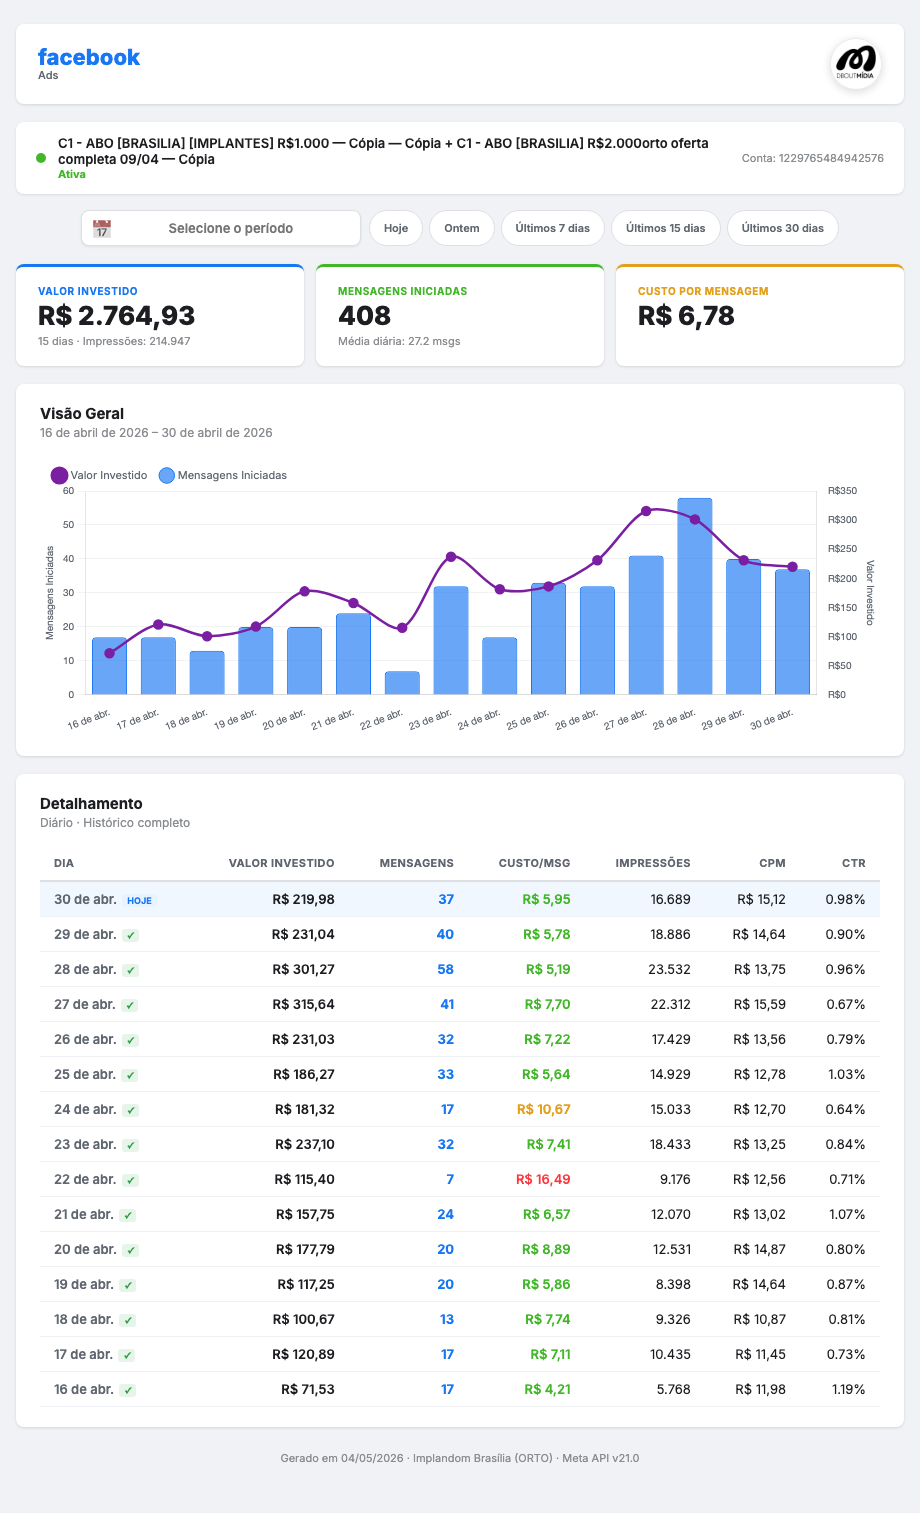
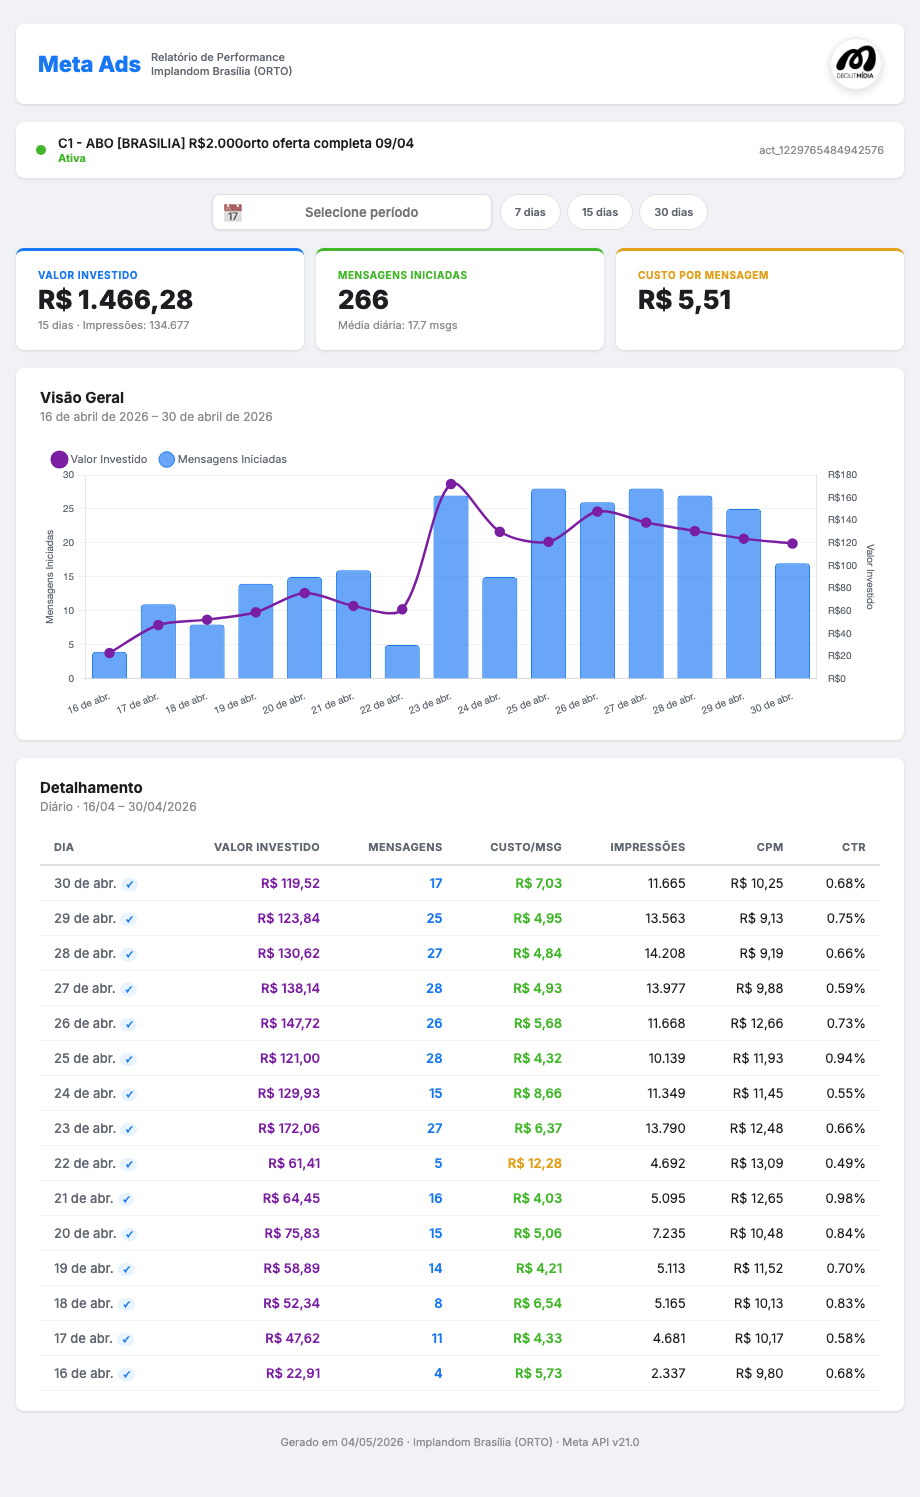
Victor: Brasília IMPLANTES/ORTO + Itaúna IMPLANTES/ORTO — 16/04→30/04

diff --git a/relatorio_implandom_brasilia_implantes.html b/relatorio_implandom_brasilia_implantes.html
@@ -1,8 +1,5 @@
-<!DOCTYPE html>
-<html lang="pt-BR">
-<head>
-<meta charset="UTF-8"/>
-<meta name="viewport" content="width=device-width,initial-scale=1.0"/>
+<!DOCTYPE html><html lang="pt-BR"><head>
+<meta charset="UTF-8"/><meta name="viewport" content="width=device-width,initial-scale=1.0"/>
 <title>Relatório · Implandom Brasília (IMPLANTES) · Meta Ads</title>
 <script src="https://cdn.jsdelivr.net/npm/chart.js@4.4.0/dist/chart.umd.min.js"></script>
 <link rel="stylesheet" href="https://cdn.jsdelivr.net/npm/flatpickr/dist/flatpickr.min.css">
@@ -13,15 +10,12 @@
 *,*::before,*::after{box-sizing:border-box;margin:0;padding:0}
 body{font-family:'Inter',sans-serif;background:#f0f2f5;color:#1c1e21;font-size:14px}
 .page{max-width:920px;margin:0 auto;padding:24px 16px 48px}
-.header{background:#fff;border-radius:8px;padding:14px 22px;margin-bottom:18px;
-        display:flex;align-items:center;justify-content:space-between;
-        box-shadow:0 1px 3px rgba(0,0,0,.12)}
+.header{background:#fff;border-radius:8px;padding:14px 22px;margin-bottom:18px;display:flex;align-items:center;justify-content:space-between;box-shadow:0 1px 3px rgba(0,0,0,.12)}
 .header-left{display:flex;align-items:center;gap:10px}
 .fb-wordmark{font-size:22px;font-weight:800;color:#1877f2;line-height:1}
 .fb-sub{font-size:11px;color:#606770;font-weight:500}
 .dbout-logo{width:52px;height:52px;border-radius:50%;object-fit:cover;box-shadow:0 2px 8px rgba(0,0,0,.15);border:1px solid #e8e8e8;flex-shrink:0}
-.camp-info{background:#fff;border-radius:8px;padding:13px 20px;margin-bottom:16px;
-           box-shadow:0 1px 3px rgba(0,0,0,.1);display:flex;align-items:center;gap:12px}
+.camp-info{background:#fff;border-radius:8px;padding:13px 20px;margin-bottom:16px;box-shadow:0 1px 3px rgba(0,0,0,.1);display:flex;align-items:center;gap:12px}
 .camp-dot{width:10px;height:10px;border-radius:50%;background:#42b72a;flex-shrink:0}
 .camp-name{font-size:13px;font-weight:600;color:#1c1e21}
 .camp-status{font-size:11px;color:#42b72a;font-weight:700}
@@ -29,156 +23,75 @@ body{font-family:'Inter',sans-serif;background:#f0f2f5;color:#1c1e21;font-size:1
 .date-range-wrap{display:flex;justify-content:center;margin-bottom:18px;gap:8px;flex-wrap:wrap}
 .date-input-wrap{position:relative}
 .date-icon{position:absolute;left:12px;top:50%;transform:translateY(-50%);pointer-events:none;color:#606770}
-#dateRangeInput{background:#fff;border:1.5px solid #dddfe2;border-radius:8px;
-  padding:9px 16px 9px 36px;font-size:13px;font-weight:600;color:#1c1e21;
-  font-family:'Inter',sans-serif;cursor:pointer;min-width:280px;text-align:center;
-  box-shadow:0 1px 3px rgba(0,0,0,.08);transition:border-color .15s;outline:none}
+#dateRangeInput{background:#fff;border:1.5px solid #dddfe2;border-radius:8px;padding:9px 16px 9px 36px;font-size:13px;font-weight:600;color:#1c1e21;font-family:'Inter',sans-serif;cursor:pointer;min-width:280px;text-align:center;box-shadow:0 1px 3px rgba(0,0,0,.08);transition:border-color .15s;outline:none}
 #dateRangeInput:hover,#dateRangeInput:focus{border-color:#1877f2}
 .period-shortcuts{display:flex;gap:6px;flex-wrap:wrap;justify-content:center}
-.ps-btn{padding:6px 14px;border-radius:20px;font-size:11px;font-weight:600;cursor:pointer;
-        border:1.5px solid #dddfe2;background:#fff;color:#606770;
-        font-family:'Inter',sans-serif;transition:all .15s}
+.ps-btn{padding:6px 14px;border-radius:20px;font-size:11px;font-weight:600;cursor:pointer;border:1.5px solid #dddfe2;background:#fff;color:#606770;font-family:'Inter',sans-serif;transition:all .15s}
 .ps-btn:hover{border-color:#1877f2;color:#1877f2}
 .ps-btn.active{background:#1877f2;color:#fff;border-color:#1877f2}
 .kpi-grid{display:grid;grid-template-columns:repeat(3,1fr);gap:12px;margin-bottom:18px}
-.kpi-card{background:#fff;border-radius:8px;padding:18px 22px;
-          box-shadow:0 1px 3px rgba(0,0,0,.12);border-top:3px solid #1877f2}
-.kpi-label{font-size:10px;font-weight:700;color:#1877f2;text-transform:uppercase;
-           letter-spacing:.6px;margin-bottom:6px}
+.kpi-card{background:#fff;border-radius:8px;padding:18px 22px;box-shadow:0 1px 3px rgba(0,0,0,.12);border-top:3px solid #1877f2}
+.kpi-label{font-size:10px;font-weight:700;color:#1877f2;text-transform:uppercase;letter-spacing:.6px;margin-bottom:6px}
 .kpi-value{font-size:26px;font-weight:800;color:#1c1e21;line-height:1}
 .kpi-sub{font-size:11px;color:#8a8d91;margin-top:5px}
-.section-card{background:#fff;border-radius:8px;padding:20px 24px;margin-bottom:18px;
-              box-shadow:0 1px 3px rgba(0,0,0,.12)}
+.section-card{background:#fff;border-radius:8px;padding:20px 24px;margin-bottom:18px;box-shadow:0 1px 3px rgba(0,0,0,.12)}
 .section-title{font-size:15px;font-weight:700;color:#1c1e21;margin-bottom:2px}
 .section-sub{font-size:12px;color:#8a8d91;margin-bottom:16px}
 .chart-wrap{height:280px;position:relative}
 .table-wrap{overflow-x:auto}
 table{width:100%;border-collapse:collapse;font-size:13px}
-thead th{padding:10px 14px;text-align:right;font-weight:700;color:#606770;
-         border-bottom:2px solid #dddfe2;font-size:11px;text-transform:uppercase;
-         letter-spacing:.4px;white-space:nowrap}
+thead th{padding:10px 14px;text-align:right;font-weight:700;color:#606770;border-bottom:2px solid #dddfe2;font-size:11px;text-transform:uppercase;letter-spacing:.4px;white-space:nowrap}
 thead th:first-child{text-align:left}
 tbody tr{border-bottom:1px solid #f0f2f5;transition:background .1s}
 tbody tr:hover{background:#f7f8fa}
-tbody tr.out-range{opacity:.4}
-tbody td{padding:9px 14px;text-align:right;color:#1c1e21;white-space:nowrap}
-tbody td:first-child{text-align:left;color:#606770;font-weight:600}
-.td-spend{font-weight:600}
-.td-msgs{color:#1877f2;font-weight:700}
+tbody td{padding:9px 14px;text-align:right;color:#1c1e21}
+tbody td:first-child{text-align:left;color:#606770;font-weight:500}
+.td-spend{color:#7b1fa2;font-weight:600}
+.td-msgs{color:#1877f2;font-weight:600}
 .td-good{color:#42b72a;font-weight:600}
 .td-warn{color:#e2a01d;font-weight:600}
 .td-bad{color:#fa383e;font-weight:600}
-.today-row td{background:#f0f7ff}
-.today-badge,.range-badge{display:inline-block;font-size:9px;font-weight:700;
-             padding:1px 5px;border-radius:3px;margin-left:5px;vertical-align:middle}
-.today-badge{background:#e7f3ff;color:#1877f2}
-.range-badge{background:#e6f4ea;color:#2d9e43}
-.flatpickr-calendar{font-family:'Inter',sans-serif!important;border-radius:10px;
-                    box-shadow:0 8px 24px rgba(0,0,0,.15)!important}
-.flatpickr-day.selected,.flatpickr-day.startRange,.flatpickr-day.endRange{
-  background:#1877f2!important;border-color:#1877f2!important}
-.flatpickr-day.inRange{background:#e7f3ff!important;border-color:#e7f3ff!important;color:#1c1e21}
 .footer{text-align:center;font-size:11px;color:#8a8d91;margin-top:24px}
-@media(max-width:620px){
-  .kpi-grid{grid-template-columns:1fr}
-  #dateRangeInput{min-width:220px}
-}
-</style>
-</head>
-<body>
-<div class="page">
-
+</style></head><body><div class="page">
 <div class="header">
   <div class="header-left">
-    <div>
-      <div class="fb-wordmark">facebook</div>
-      <div class="fb-sub">Ads</div>
-    </div>
+    <div class="fb-wordmark">Meta Ads</div>
+    <div><div class="fb-sub">Relatório de Performance</div><div class="fb-sub">Implandom Brasília (IMPLANTES)</div></div>
   </div>
[1 lines of base64/hex data omitted]
 </div>
-
 <div class="camp-info">
   <div class="camp-dot"></div>
-  <div>
-    <div class="camp-name">C1 - ABO [BRASILIA] [IMPLANTES]  R$1.000 — Cópia — Cópia + C1 - ABO [BRASILIA]  R$2.000orto oferta completa 09/04 — Cópia</div>
-    <div class="camp-status">Ativa</div>
-  </div>
-  <div class="camp-account">Conta: 1229765484942576</div>
+  <div><div class="camp-name">C1 - ABO [BRASILIA] [IMPLANTES] R$2.000</div><div class="camp-status">Ativa</div></div>
+  <div class="camp-account">act_1229765484942576</div>
 </div>
-
 <div class="date-range-wrap">
   <div class="date-input-wrap">
     <span class="date-icon">📅</span>
-    <input id="dateRangeInput" type="text" readonly placeholder="Selecione o período"/>
+    <input type="text" id="dateRangeInput" placeholder="Selecione período" readonly/>
   </div>
   <div class="period-shortcuts">
-    <button class="ps-btn" onclick="applyShortcut(0)">Hoje</button>
-    <button class="ps-btn" onclick="applyShortcut(1)">Ontem</button>
-    <button class="ps-btn" onclick="applyShortcut(7)">Últimos 7 dias</button>
-    <button class="ps-btn" onclick="applyShortcut(15)">Últimos 15 dias</button>
-    <button class="ps-btn" onclick="applyShortcut(30)">Últimos 30 dias</button>
+    <button class="ps-btn" onclick="applyShortcut(7)">7 dias</button>
+    <button class="ps-btn" onclick="applyShortcut(15)">15 dias</button>
+    <button class="ps-btn" onclick="applyShortcut(30)">30 dias</button>
   </div>
 </div>
-
 <div class="kpi-grid">
-  <div class="kpi-card">
-    <div class="kpi-label">Valor Investido</div>
-    <div class="kpi-value" id="kpi-spend">—</div>
-    <div class="kpi-sub" id="kpi-spend-sub"></div>
-  </div>
-  <div class="kpi-card" style="border-top-color:#42b72a">
-    <div class="kpi-label" style="color:#42b72a">Mensagens Iniciadas</div>
-    <div class="kpi-value" id="kpi-msgs">—</div>
-    <div class="kpi-sub" id="kpi-msgs-sub"></div>
-  </div>
-  <div class="kpi-card" style="border-top-color:#e2a01d">
-    <div class="kpi-label" style="color:#e2a01d">Custo por Mensagem</div>
-    <div class="kpi-value" id="kpi-cpmsg">—</div>
-    <div class="kpi-sub" id="kpi-cpmsg-sub"></div>
-  </div>
+  <div class="kpi-card"><div class="kpi-label">Valor Investido</div><div class="kpi-value" id="kpi-spend">—</div><div class="kpi-sub" id="kpi-spend-sub"></div></div>
+  <div class="kpi-card" style="border-top-color:#42b72a"><div class="kpi-label" style="color:#42b72a">Mensagens Iniciadas</div><div class="kpi-value" id="kpi-msgs">—</div><div class="kpi-sub" id="kpi-msgs-sub"></div></div>
+  <div class="kpi-card" style="border-top-color:#e2a01d"><div class="kpi-label" style="color:#e2a01d">Custo por Mensagem</div><div class="kpi-value" id="kpi-cpmsg">—</div><div class="kpi-sub" id="kpi-cpmsg-sub"></div></div>
 </div>
-
-<div class="section-card">
-  <div class="section-title">Visão Geral</div>
-  <div class="section-sub" id="chartSub">Período selecionado</div>
-  <div class="chart-wrap"><canvas id="mainChart"></canvas></div>
+<div class="section-card"><div class="section-title">Visão Geral</div><div class="section-sub" id="chartSub">Período selecionado</div><div class="chart-wrap"><canvas id="mainChart"></canvas></div></div>
+<div class="section-card"><div class="section-title">Detalhamento</div><div class="section-sub">Diário · 16/04 – 30/04/2026</div>
+<div class="table-wrap"><table><thead><tr><th style="text-align:left">Dia</th><th>Valor Investido</th><th>Mensagens</th><th>Custo/Msg</th><th>Impressões</th><th>CPM</th><th>CTR</th></tr></thead><tbody id="tableBody"></tbody></table></div></div>
+<div class="footer">Gerado em 04/05/2026 · Implandom Brasília (IMPLANTES) · Meta API v21.0</div>
 </div>
-
-<div class="section-card">
-  <div class="section-title">Detalhamento</div>
-  <div class="section-sub">Diário · Histórico completo</div>
-  <div class="table-wrap">
-    <table>
-      <thead>
-        <tr>
-          <th style="text-align:left">Dia</th>
-          <th>Valor Investido</th>
-          <th>Mensagens</th>
-          <th>Custo/Msg</th>
-          <th>Impressões</th>
-          <th>CPM</th>
-          <th>CTR</th>
-        </tr>
-      </thead>
-      <tbody id="tableBody"></tbody>
-    </table>
-  </div>
-</div>
-
-<div class="footer">
-  Gerado em 04/05/2026 · Implandom Brasília (IMPLANTES) · Meta API v21.0
-</div>
-</div>
-
 <script>
-const DAILY = [{"date": "2026-04-30", "spend": 219.98, "msgs": 37, "cost_msg": 5.95, "impr": 16689, "cpm": 15.12, "ctr": 0.98}, {"date": "2026-04-29", "spend": 231.04, "msgs": 40, "cost_msg": 5.78, "impr": 18886, "cpm": 14.64, "ctr": 0.9}, {"date": "2026-04-28", "spend": 301.27, "msgs": 58, "cost_msg": 5.19, "impr": 23532, "cpm": 13.75, "ctr": 0.96}, {"date": "2026-04-27", "spend": 315.64, "msgs": 41, "cost_msg": 7.7, "impr": 22312, "cpm": 15.59, "ctr": 0.67}, {"date": "2026-04-26", "spend": 231.03, "msgs": 32, "cost_msg": 7.22, "impr": 17429, "cpm": 13.56, "ctr": 0.79}, {"date": "2026-04-25", "spend": 186.27, "msgs": 33, "cost_msg": 5.64, "impr": 14929, "cpm": 12.78, "ctr": 1.03}, {"date": "2026-04-24", "spend": 181.32, "msgs": 17, "cost_msg": 10.67, "impr": 15033, "cpm": 12.7, "ctr": 0.64}, {"date": "2026-04-23", "spend": 237.1, "msgs": 32, "cost_msg": 7.41, "impr": 18433, "cpm": 13.25, "ctr": 0.84}, {"date": "2026-04-22", "spend": 115.4, "msgs": 7, "cost_msg": 16.49, "impr": 9176, "cpm": 12.56, "ctr": 0.71}, {"date": "2026-04-21", "spend": 157.75, "msgs": 24, "cost_msg": 6.57, "impr": 12070, "cpm": 13.02, "ctr": 1.07}, {"date": "2026-04-20", "spend": 177.79, "msgs": 20, "cost_msg": 8.89, "impr": 12531, "cpm": 14.87, "ctr": 0.8}, {"date": "2026-04-19", "spend": 117.25, "msgs": 20, "cost_msg": 5.86, "impr": 8398, "cpm": 14.64, "ctr": 0.87}, {"date": "2026-04-18", "spend": 100.67, "msgs": 13, "cost_msg": 7.74, "impr": 9326, "cpm": 10.87, "ctr": 0.81}, {"date": "2026-04-17", "spend": 120.89, "msgs": 17, "cost_msg": 7.11, "impr": 10435, "cpm": 11.45, "ctr": 0.73}, {"date": "2026-04-16", "spend": 71.53, "msgs": 17, "cost_msg": 4.21, "impr": 5768, "cpm": 11.98, "ctr": 1.19}];
-const DEFAULT_DAYS = 15;
-const FIXED_SINCE = '2026-04-16';
-const FIXED_UNTIL = '2026-04-30';
-const PT_M = ['jan','fev','mar','abr','mai','jun','jul','ago','set','out','nov','dez'];
-const PT_MF = ['janeiro','fevereiro','março','abril','maio','junho','julho','agosto','setembro','outubro','novembro','dezembro'];
-let chart=null, activeSince=null, activeUntil=null;
+const DAILY=[{"date": "2026-04-30", "spend": 100.46, "msgs": 20, "cost_msg": 5.02, "impr": 5024, "cpm": 20.0, "ctr": 1.27}, {"date": "2026-04-29", "spend": 107.2, "msgs": 15, "cost_msg": 7.15, "impr": 5323, "cpm": 20.14, "ctr": 1.05}, {"date": "2026-04-28", "spend": 170.65, "msgs": 31, "cost_msg": 5.5, "impr": 9324, "cpm": 18.3, "ctr": 1.25}, {"date": "2026-04-27", "spend": 177.5, "msgs": 13, "cost_msg": 13.65, "impr": 8335, "cpm": 21.3, "ctr": 0.74}, {"date": "2026-04-26", "spend": 83.31, "msgs": 6, "cost_msg": 13.88, "impr": 5761, "cpm": 14.46, "ctr": 0.85}, {"date": "2026-04-25", "spend": 65.27, "msgs": 5, "cost_msg": 13.05, "impr": 4790, "cpm": 13.63, "ctr": 1.13}, {"date": "2026-04-24", "spend": 51.39, "msgs": 2, "cost_msg": 25.7, "impr": 3684, "cpm": 13.95, "ctr": 0.73}, {"date": "2026-04-23", "spend": 65.04, "msgs": 5, "cost_msg": 13.01, "impr": 4643, "cpm": 14.01, "ctr": 1.03}, {"date": "2026-04-22", "spend": 53.99, "msgs": 2, "cost_msg": 27.0, "impr": 4484, "cpm": 12.04, "ctr": 0.94}, {"date": "2026-04-21", "spend": 93.3, "msgs": 8, "cost_msg": 11.66, "impr": 6975, "cpm": 13.38, "ctr": 1.16}, {"date": "2026-04-20", "spend": 101.96, "msgs": 5, "cost_msg": 20.39, "impr": 5296, "cpm": 19.25, "ctr": 0.77}, {"date": "2026-04-19", "spend": 58.36, "msgs": 6, "cost_msg": 9.73, "impr": 3285, "cpm": 17.77, "ctr": 1.04}, {"date": "2026-04-18", "spend": 48.33, "msgs": 5, "cost_msg": 9.67, "impr": 4161, "cpm": 11.61, "ctr": 0.79}, {"date": "2026-04-17", "spend": 73.27, "msgs": 6, "cost_msg": 12.21, "impr": 5754, "cpm": 12.73, "ctr": 0.89}, {"date": "2026-04-16", "spend": 48.62, "msgs": 13, "cost_msg": 3.74, "impr": 3431, "cpm": 14.17, "ctr": 1.69}];
+const FIXED_SINCE='2026-04-16';const FIXED_UNTIL='2026-04-30';
+const PT_M=['jan','fev','mar','abr','mai','jun','jul','ago','set','out','nov','dez'];
+const PT_MF=['janeiro','fevereiro','março','abril','maio','junho','julho','agosto','setembro','outubro','novembro','dezembro'];
+let chart=null;
 function fmtBRL(v){return 'R$ '+Number(v).toLocaleString('pt-BR',{minimumFractionDigits:2,maximumFractionDigits:2})}
 function fmtNum(v){return Number(v).toLocaleString('pt-BR')}
 function fmtShort(iso){const[y,m,d]=iso.split('-');return `${+d} de ${PT_M[+m-1]}.`}
@@ -187,30 +100,15 @@ function addDays(iso,n){const d=new Date(iso+'T12:00:00');d.setDate(d.getDate()+
 function today(){return DAILY.length>0?DAILY[0].date:new Date().toISOString().slice(0,10)}
 const minDate=DAILY.length>0?DAILY[DAILY.length-1].date:undefined;
 const maxDate=DAILY.length>0?DAILY[0].date:undefined;
-const fp=flatpickr('#dateRangeInput',{
-  mode:'range',locale:'pt',dateFormat:'d \de M. \de Y',
-  minDate,maxDate,showMonths:1,
-  onChange(selectedDates){
-    if(selectedDates.length===2){
-      clearShortcuts();
-      applyRange(selectedDates[0].toISOString().slice(0,10),selectedDates[1].toISOString().slice(0,10));
-    }
-  }
+const fp=flatpickr('#dateRangeInput',{mode:'range',locale:'pt',dateFormat:'d \de M. \de Y',minDate,maxDate,showMonths:1,
+  onChange(selectedDates){if(selectedDates.length===2)applyRange(selectedDates[0].toISOString().slice(0,10),selectedDates[1].toISOString().slice(0,10));}
 });
 function applyShortcut(days){
-  clearShortcuts();
-  const btns=document.querySelectorAll('.ps-btn');
-  const idx=[0,1,7,15,30].indexOf(days);
-  if(idx>=0)btns[idx].classList.add('active');
-  const until=today();
-  const since=days===0?until:days===1?addDays(until,-1):addDays(until,-(days-1));
-  const sinceEnd=days===1?addDays(until,-1):until;
-  fp.setDate([since,sinceEnd],false);
-  applyRange(since,sinceEnd);
+  document.querySelectorAll('.ps-btn').forEach(b=>b.classList.remove('active'));
+  const t=today();const s=addDays(t,-(days-1));
+  fp.setDate([s,t],false);applyRange(s,t);
 }
-function clearShortcuts(){document.querySelectorAll('.ps-btn').forEach(b=>b.classList.remove('active'))}
 function applyRange(since,until){
-  activeSince=since;activeUntil=until;
   const inRange=DAILY.filter(d=>d.date>=since&&d.date<=until).sort((a,b)=>a.date.localeCompare(b.date));
   const totalSpend=inRange.reduce((s,d)=>s+d.spend,0);
   const totalMsgs=inRange.reduce((s,d)=>s+d.msgs,0);
@@ -228,71 +126,33 @@ function applyRange(since,until){
 }
 function renderChart(days){
   if(chart){chart.destroy();chart=null}
-  chart=new Chart(document.getElementById('mainChart'),{
-    data:{
-      labels:days.map(d=>fmtShort(d.date)),
-      datasets:[
-        {type:'bar',label:'Mensagens Iniciadas',data:days.map(d=>d.msgs),
-          backgroundColor:'rgba(24,119,242,0.65)',borderColor:'rgba(24,119,242,1)',
-          borderWidth:1,borderRadius:4,yAxisID:'yL',order:2},
-        {type:'line',label:'Valor Investido',data:days.map(d=>d.spend),
-          borderColor:'#7b1fa2',backgroundColor:'transparent',
-          borderWidth:2.5,pointRadius:4,pointBackgroundColor:'#7b1fa2',
-          tension:0.3,yAxisID:'yR',order:1}
-      ]
-    },
-    options:{
-      responsive:true,maintainAspectRatio:false,
-      interaction:{mode:'index',intersect:false},
-      plugins:{
-        legend:{display:true,position:'top',align:'start',
-          labels:{font:{size:11,family:'Inter'},color:'#606770',boxWidth:14,padding:14,usePointStyle:true}},
-        tooltip:{backgroundColor:'#fff',titleColor:'#1c1e21',bodyColor:'#606770',
-          borderColor:'#dddfe2',borderWidth:1,padding:10,
-          callbacks:{label(c){return c.dataset.label==='Valor Investido'?' '+fmtBRL(c.raw):' '+fmtNum(c.raw)+' msgs'}}}
-      },
-      scales:{
-        yL:{type:'linear',position:'left',beginAtZero:true,
-            title:{display:true,text:'Mensagens Iniciadas',color:'#606770',font:{size:10}},
-            ticks:{color:'#606770',font:{size:10}},grid:{color:'rgba(0,0,0,.05)'}},
-        yR:{type:'linear',position:'right',beginAtZero:true,
-            title:{display:true,text:'Valor Investido',color:'#606770',font:{size:10}},
-            ticks:{color:'#606770',font:{size:10},callback:v=>'R$'+v.toFixed(0)},
-            grid:{display:false}},
-        x:{ticks:{color:'#606770',font:{size:10},maxRotation:45},grid:{display:false}}
-      }
-    }
-  });
+  chart=new Chart(document.getElementById('mainChart'),{data:{labels:days.map(d=>fmtShort(d.date)),datasets:[
+    {type:'bar',label:'Mensagens Iniciadas',data:days.map(d=>d.msgs),backgroundColor:'rgba(24,119,242,0.65)',borderColor:'rgba(24,119,242,1)',borderWidth:1,borderRadius:4,yAxisID:'yL',order:2},
+    {type:'line',label:'Valor Investido',data:days.map(d=>d.spend),borderColor:'#7b1fa2',backgroundColor:'transparent',borderWidth:2.5,pointRadius:4,pointBackgroundColor:'#7b1fa2',tension:0.3,yAxisID:'yR',order:1}
+  ]},options:{responsive:true,maintainAspectRatio:false,interaction:{mode:'index',intersect:false},
+    plugins:{legend:{display:true,position:'top',align:'start',labels:{font:{size:11,family:'Inter'},color:'#606770',boxWidth:14,padding:14,usePointStyle:true}},
+      tooltip:{backgroundColor:'#fff',titleColor:'#1c1e21',bodyColor:'#606770',borderColor:'#dddfe2',borderWidth:1,padding:10,
+        callbacks:{label(c){return c.dataset.label==='Valor Investido'?' '+fmtBRL(c.raw):' '+fmtNum(c.raw)+' msgs'}}}},
+    scales:{yL:{type:'linear',position:'left',beginAtZero:true,title:{display:true,text:'Mensagens Iniciadas',color:'#606770',font:{size:10}},ticks:{color:'#606770',font:{size:10}},grid:{color:'rgba(0,0,0,.05)'}},
+      yR:{type:'linear',position:'right',beginAtZero:true,title:{display:true,text:'Valor Investido',color:'#606770',font:{size:10}},ticks:{color:'#606770',font:{size:10},callback:v=>'R$'+v.toFixed(0)},grid:{display:false}},
+      x:{ticks:{color:'#606770',font:{size:10},maxRotation:45},grid:{display:false}}}}}
+  );
 }
 function renderTable(since,until){
-  const tbody=document.getElementById('tableBody');
-  const todayStr=DAILY.length>0?DAILY[0].date:'';
-  tbody.innerHTML='';
+  const tbody=document.getElementById('tableBody');tbody.innerHTML='';
   DAILY.forEach(d=>{
     const inSel=d.date>=since&&d.date<=until;
-    const isToday=d.date===todayStr;
     const[y,m,day]=d.date.split('-');
     const label=`${+day} de ${PT_M[+m-1]}.`;
     const cpClass=d.cost_msg<=10?'td-good':d.cost_msg<=15?'td-warn':'td-bad';
     const tr=document.createElement('tr');
-    if(isToday)tr.className='today-row';
-    else if(!inSel)tr.className='out-range';
-    tr.innerHTML=`
-      <td>${label}${isToday?'<span class="today-badge">HOJE</span>':''}${inSel&&!isToday?'<span class="range-badge">✓</span>':''}</td>
-      <td class="td-spend">${fmtBRL(d.spend)}</td>
-      <td class="td-msgs">${fmtNum(d.msgs)}</td>
-      <td class="${cpClass}">${fmtBRL(d.cost_msg)}</td>
-      <td>${fmtNum(d.impr)}</td>
-      <td>${fmtBRL(d.cpm)}</td>
-      <td>${d.ctr.toFixed(2)}%</td>
-    `;
+    if(!inSel)tr.className='out-range';
+    tr.innerHTML=`<td>${label}${inSel?'<span style="background:#e7f3ff;color:#1877f2;font-size:9px;padding:1px 5px;border-radius:8px;margin-left:4px">✓</span>':''}</td>
+      <td class="td-spend">${fmtBRL(d.spend)}</td><td class="td-msgs">${fmtNum(d.msgs)}</td>
+      <td class="${cpClass}">${fmtBRL(d.cost_msg)}</td><td>${fmtNum(d.impr)}</td>
+      <td>${fmtBRL(d.cpm)}</td><td>${d.ctr.toFixed(2)}%</td>`;
     tbody.appendChild(tr);
   });
 }
-window.addEventListener('load',()=>{
-  fp.setDate([FIXED_SINCE,FIXED_UNTIL],false);
-  applyRange(FIXED_SINCE,FIXED_UNTIL);
-});
-</script>
-</body>
-</html>
+window.addEventListener('load',()=>{fp.setDate([FIXED_SINCE,FIXED_UNTIL],false);applyRange(FIXED_SINCE,FIXED_UNTIL);});
+</script></body></html>